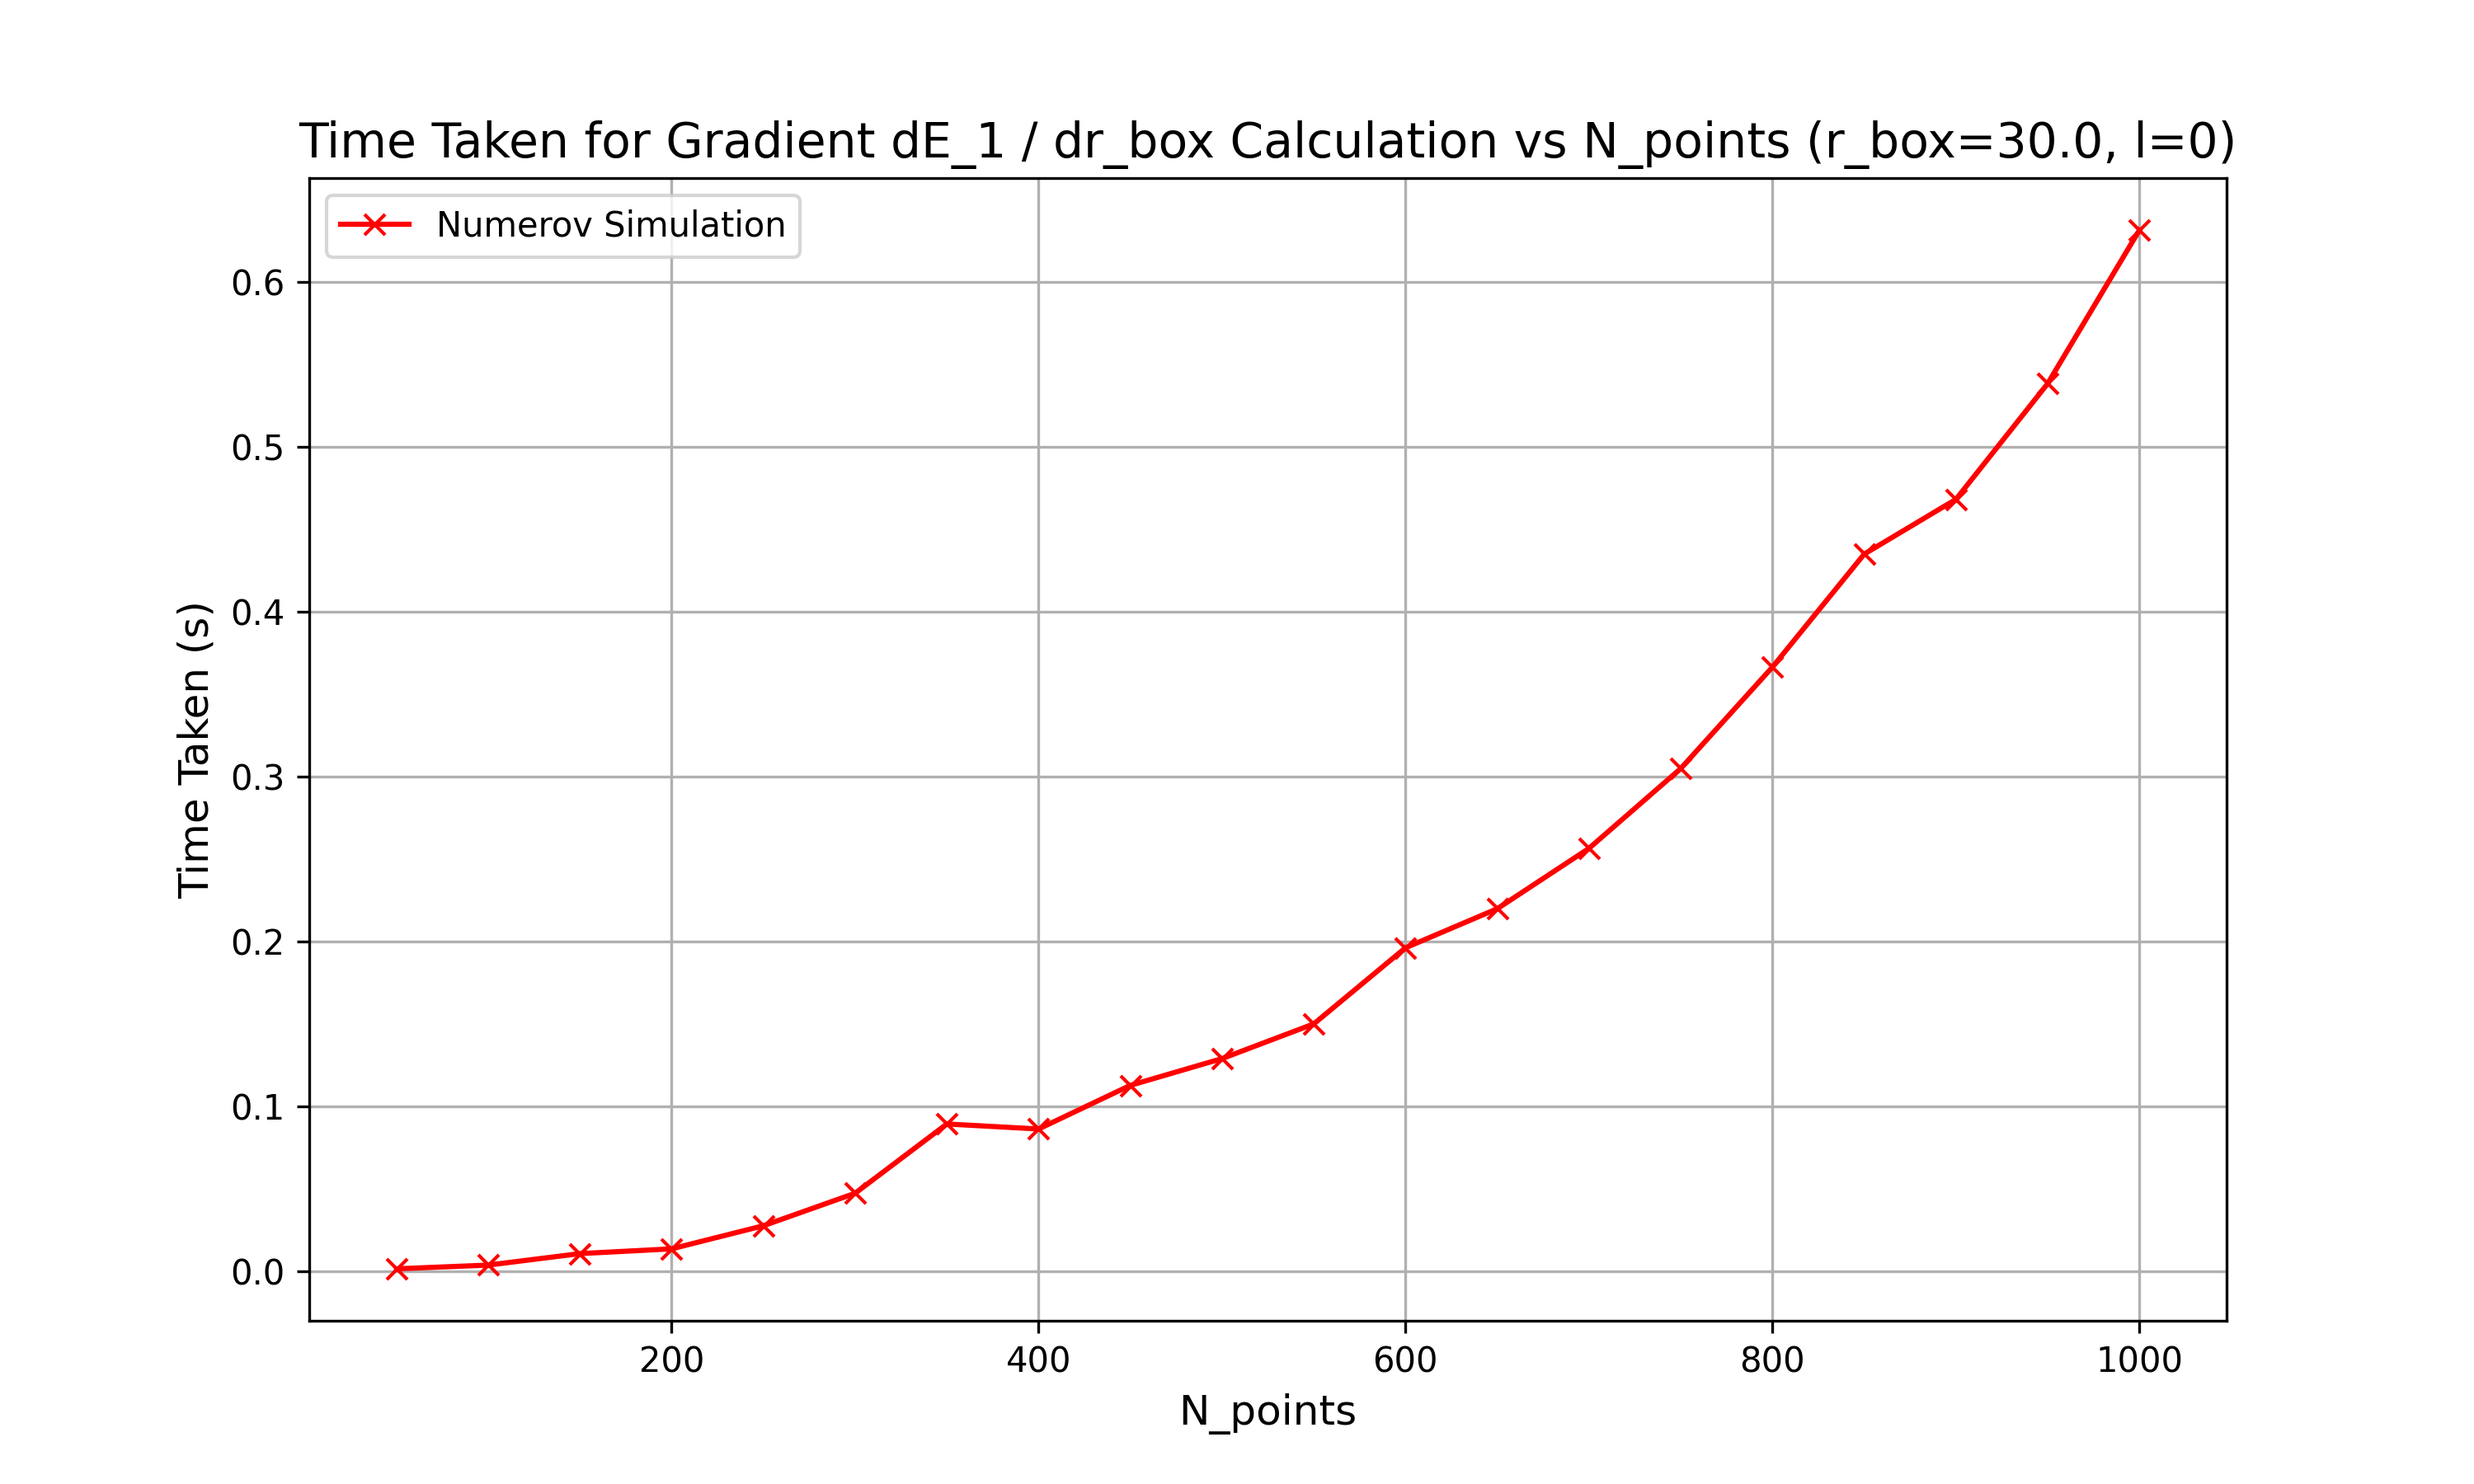
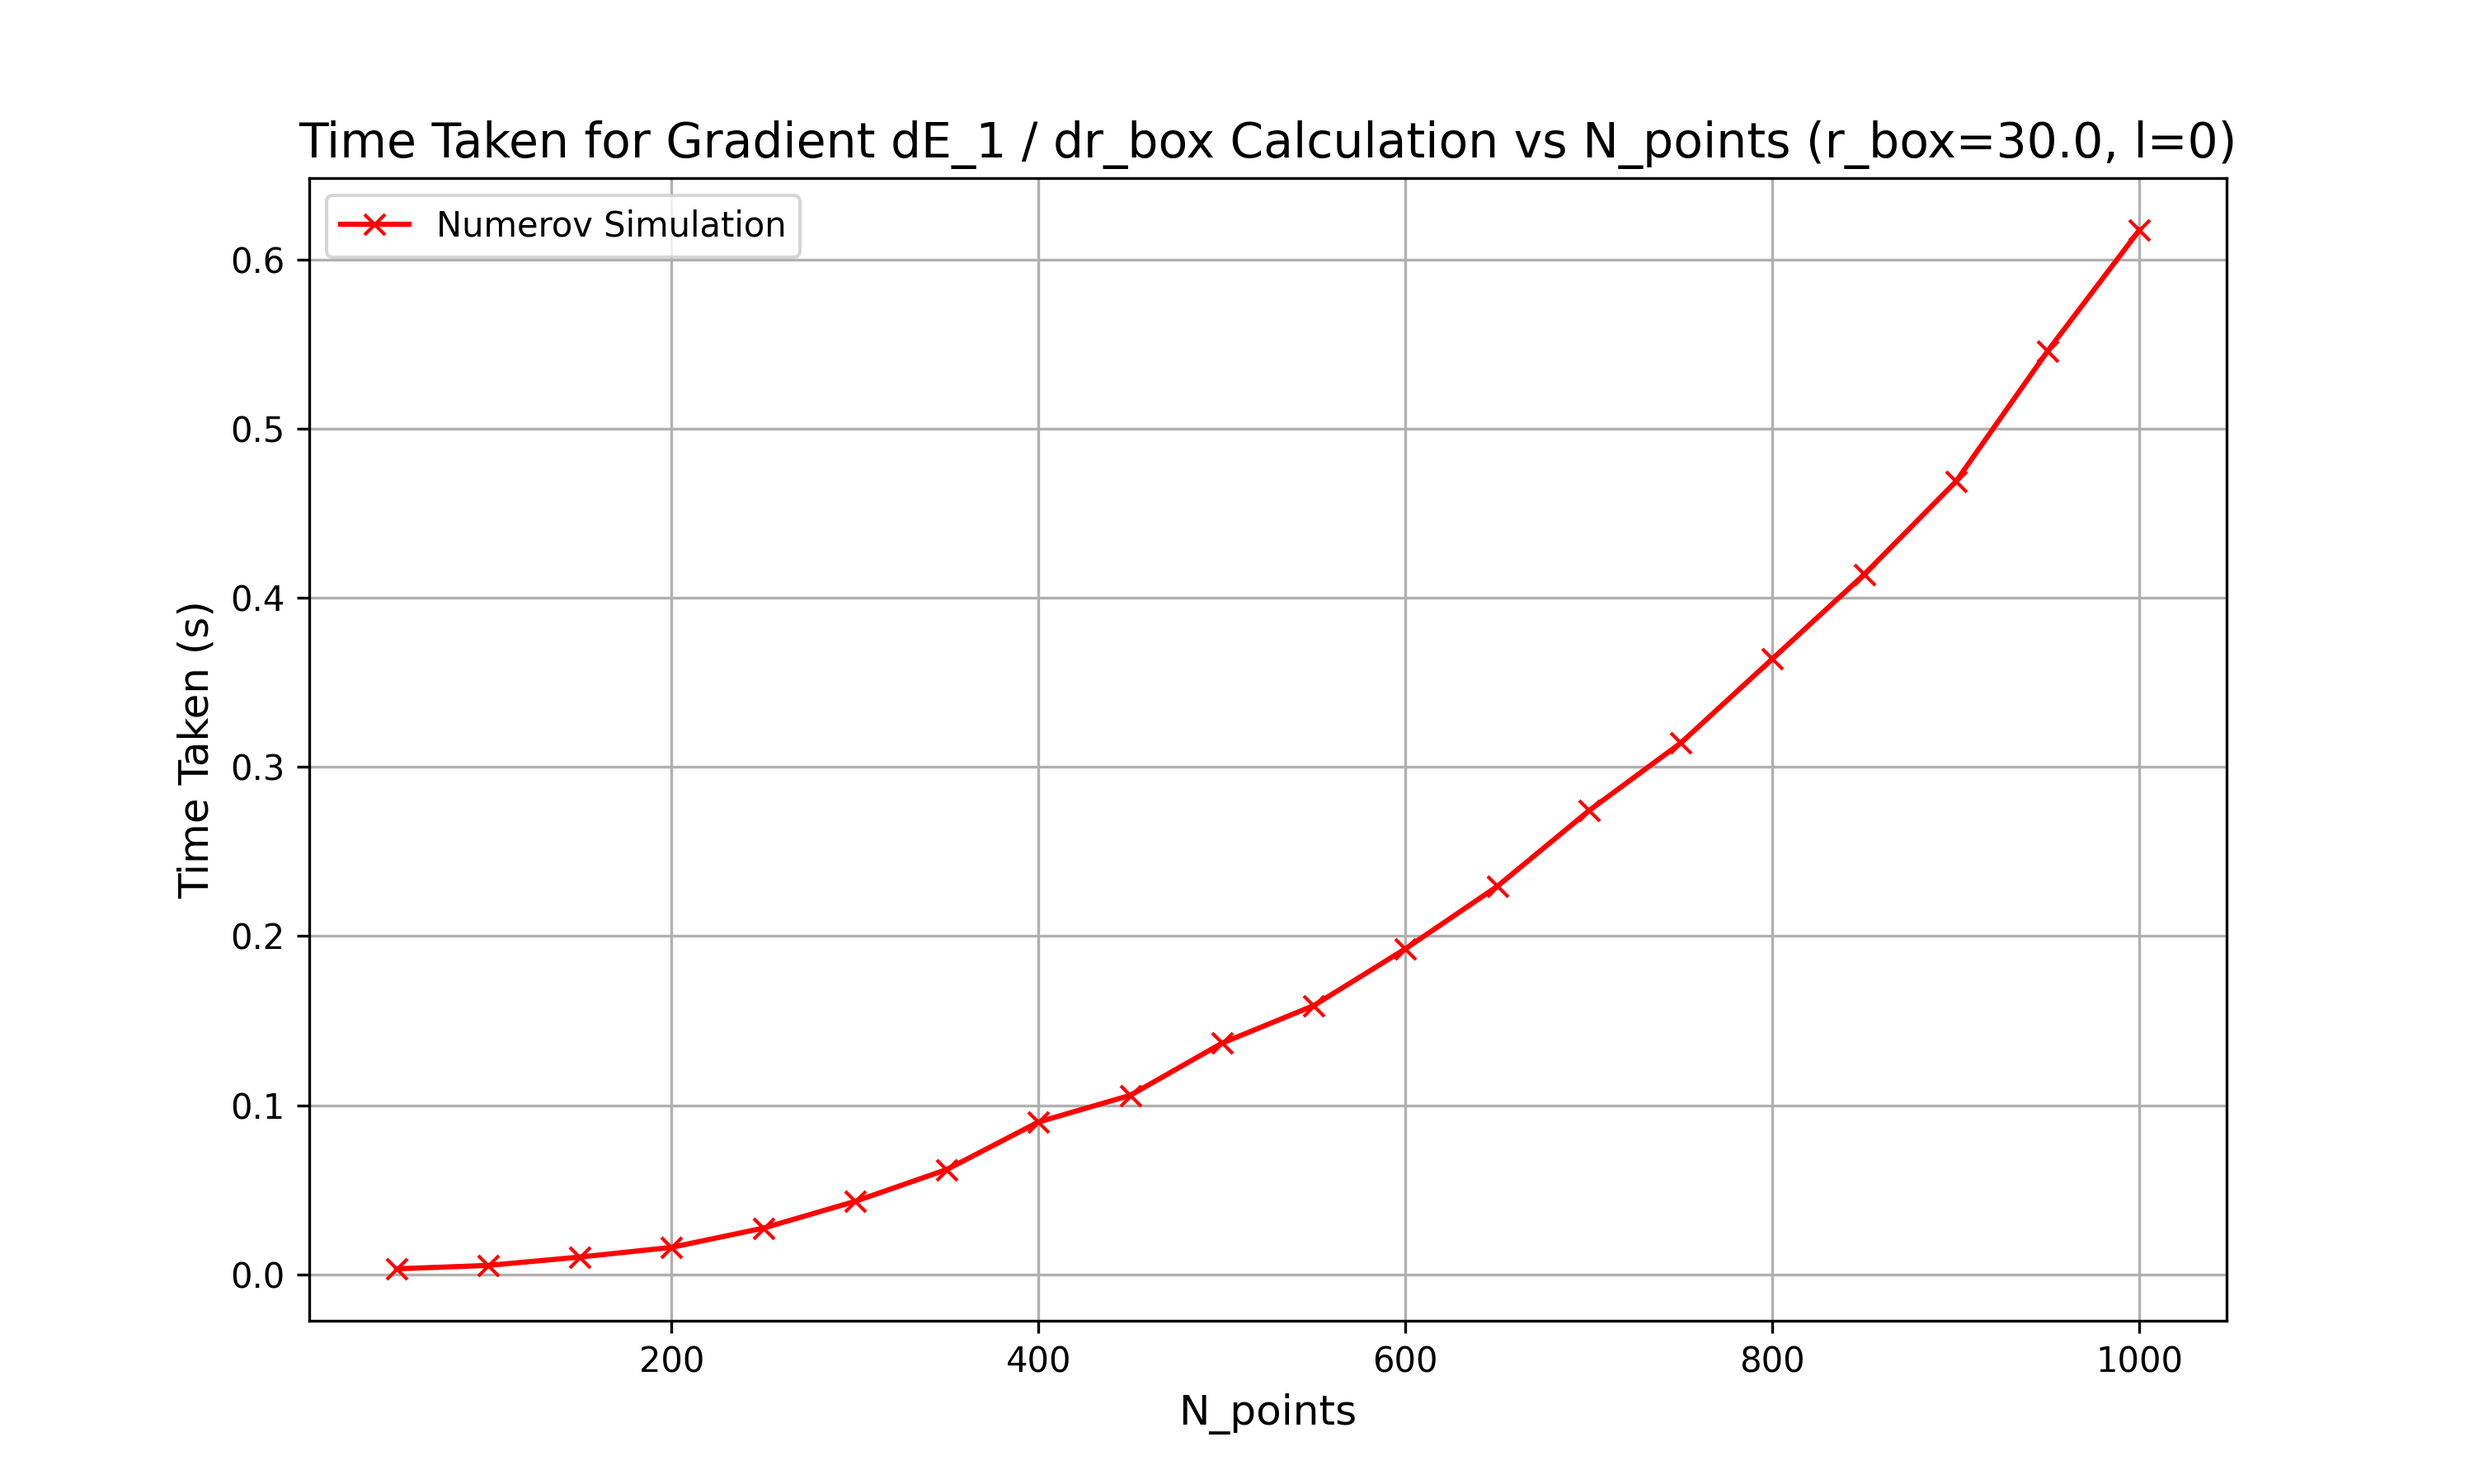
fixed U_solver

diff --git a/jax numerov/njax_U_plot.py b/jax numerov/njax_U_plot.py
@@ -17,20 +17,17 @@ def main():
 
     # initialization
     r_box = 30
-    N_points = 1000
-    l = 0
+    N_points = 300
     r_start = 1e-5
-    
-    # running solver
-    energies, psi = numerov_solver(r_box, r_start, N_points, l)
+    l_max = 10
     
     # for varying temperature
     temps = jnp.logspace(-3,1, num = 50)
     
     # calculating internal energies
     U_array = jnp.zeros(len(temps))
-    U_vect = jax.vmap(U_solver, in_axes = (None, 0))
-    U_array = U_vect(energies, temps)
+    U_vect = jax.vmap(U_solver, in_axes = (0, None, None, None, None))
+    U_array = U_vect(temps, r_box, r_start, N_points, l_max)
 
     # converting to Kelvin and eV
     temps *= 315775
@@ -48,7 +45,7 @@ def main():
     plt.xlabel("Temperature (K)", fontsize=12)
     plt.ylabel("Internal Energy (eV)", fontsize=12)
     plt.xlim((0,3e6))
-    plt.title(f"Internal Energy vs Temperature (r_box={r_box}, l={l})", fontsize=14)
+    plt.title(f"Internal Energy vs Temperature (r_box={r_box}, l_max={l_max})", fontsize=14)
     plt.grid(True)
     plt.legend()
 
@@ -62,7 +59,7 @@ def main():
         os.makedirs(plot_dir)
         print(f"Created directory: {plot_dir}")
 
-    temp_filename = os.path.join(plot_dir, f"temp_rbox{r_box}_l{l}_global.png")
+    temp_filename = os.path.join(plot_dir, f"temp_rbox{r_box}_lmax{l_max}_global.png")
     plt.savefig(temp_filename, dpi=300)
 
     # close up plot (const r_box)
@@ -73,7 +70,7 @@ def main():
     plt.ylabel("Internal Energy (eV)", fontsize=12)
     plt.xlim((0,1e5))
     plt.ylim((-15,15))
-    plt.title(f"Internal Energy vs Temperature (r_box={r_box}, l={l}) - Close Up", fontsize=14)
+    plt.title(f"Internal Energy vs Temperature (r_box={r_box}, l_max={l_max}) - Close Up", fontsize=14)
     plt.grid(True)
     plt.legend()
 
@@ -87,7 +84,7 @@ def main():
         os.makedirs(plot_dir)
         print(f"Created directory: {plot_dir}")
 
-    temp_filename = os.path.join(plot_dir, f"temp_rbox{r_box}_l{l}_closeup.png")
+    temp_filename = os.path.join(plot_dir, f"temp_rbox{r_box}_lmax{l_max}_closeup.png")
     plt.savefig(temp_filename, dpi=300)
 
     # const temp and varying r_box
@@ -97,13 +94,9 @@ def main():
     # for varying r_box
     r_box_array = jnp.logspace(-3, 2, num = 50)
 
-    # running solver
-    numerov_solver_vect = jax.vmap(numerov_solver, in_axes = (0, None, None, None))
-    energies_mat, psi_mat = numerov_solver_vect(r_box_array, r_start, N_points, l)
-
     # calculating internal energies
-    U_vect_2 = jax.vmap(U_solver, in_axes = (0, None))
-    U_array_2 = U_vect_2(energies_mat, temp)
+    U_vect_2 = jax.vmap(U_solver, in_axes = (None, 0, None, None, None))
+    U_array_2 = U_vect_2(temp, r_box_array, r_start, N_points, l_max)
     U_array_2 *= 27.2114
 
     plt.figure(figsize=(10,6))
@@ -111,11 +104,11 @@ def main():
     plt.xlabel("r_box (Ha)", fontsize=12)
     plt.xscale("log")
     plt.ylabel("Internal Energy (eV)", fontsize=12)
-    plt.title(f"Internal Energy vs r_box (temp = {temp*315775:.0f} K, l = {l})", fontsize=14)
+    plt.title(f"Internal Energy vs r_box (temp = {temp*315775:.0f} K, l_max = {l_max})", fontsize=14)
     plt.grid(True)
     plt.legend()
 
-    temp_filename = os.path.join(plot_dir, f"temp2_temp{temp}_l{l}.png")
+    temp_filename = os.path.join(plot_dir, f"temp2_temp{temp}_lmax{l_max}.png")
     plt.savefig(temp_filename, dpi=300)
 
     # file run completion message

diff --git a/jax numerov/njax_functions.py b/jax numerov/njax_functions.py
@@ -55,7 +55,7 @@ def numerov_solver(r_box, r_start, N_points, l):
 def cholesky_solve(A,B):
     """ 
     basically a generalized eigenvalue/vec solver, for the form Ax = lambda B x
-    performing cholesky decomposition
+    performing cholesky decomposition, uses the eigh function
     
     background:
     B = L L^T --> Ax = lambda L L^T x --> L^-1 A x = lambda L^T x = lambda y
@@ -84,23 +84,46 @@ def cholesky_solve(A,B):
 
     return eigvals, eigvecs
 
-@jit
-def U_solver(energies, temp):
+@partial(jit, static_argnames = ['N_points', 'l_max'])
+def U_solver(temp, r_box, r_start, N_points, l_max):
     """ 
     implementing boltzmann statistics for the calculation of
     internal energy as a function of temperature and r_max
 
     inputs: 
-    energies - 1D array of the eigenvalues from numerov_solver
-    temp - scalar temperature value (in Ha, 1 Ha = 315,775 K)
-    r_max - scalar value representing confinement and density
+    temp - temperature (in Ha, 1 Ha = 315775 K)
+    r_box - box size for solving the Schrodinger equation (in Ha)
+    r_start - start point for r_points, r_points[0]
+    N_points - # of r_points used for numerov solver
+    l_max - max l we consider until, when looping through the numerov solver
+    to obtain energy eigenvalues for different l
 
     outputs: 
     U - scalar value of the internal energy (in Ha, 1 Ha = 27.2 eV)
     """
 
-    f_i = jnp.exp(-energies/temp) / sum(jnp.exp(-energies/temp))
+    l_array = jnp.arange(l_max + 1)
 
-    U = sum(energies * f_i)
+    energies = jnp.zeros((len(l_array), N_points-2))
+
+    # everything constant except for the last input for numerov_solver which is l
+    numerov_vect = jax.vmap(numerov_solver, in_axes = (None, None, None, 0))
+    energies, _ = numerov_vect(r_box, r_start, N_points, l_array)
+
+    # calculating degeneracy factors, basically how many slots open for each l
+    # 2 for spin, and 2*l+1 for magnetic quantum number so:
+    g_l = 2*(2*l_array + 1)
+
+    # resizing matrix so it can be used for matrix multiplication
+    g_l_matrix = g_l[:, None]
+
+    # calculating boltzmann factor using the degeneracy factor and boltzmann statistics
+    f_i = g_l_matrix * jnp.exp(-energies / temp)
+
+    # calculating normalization constant to divide everything by, such that
+    # all the probabilities will add up to 1
+    Z = jnp.sum(f_i)
+
+    U = jnp.sum(energies * f_i) / Z
 
     return U
